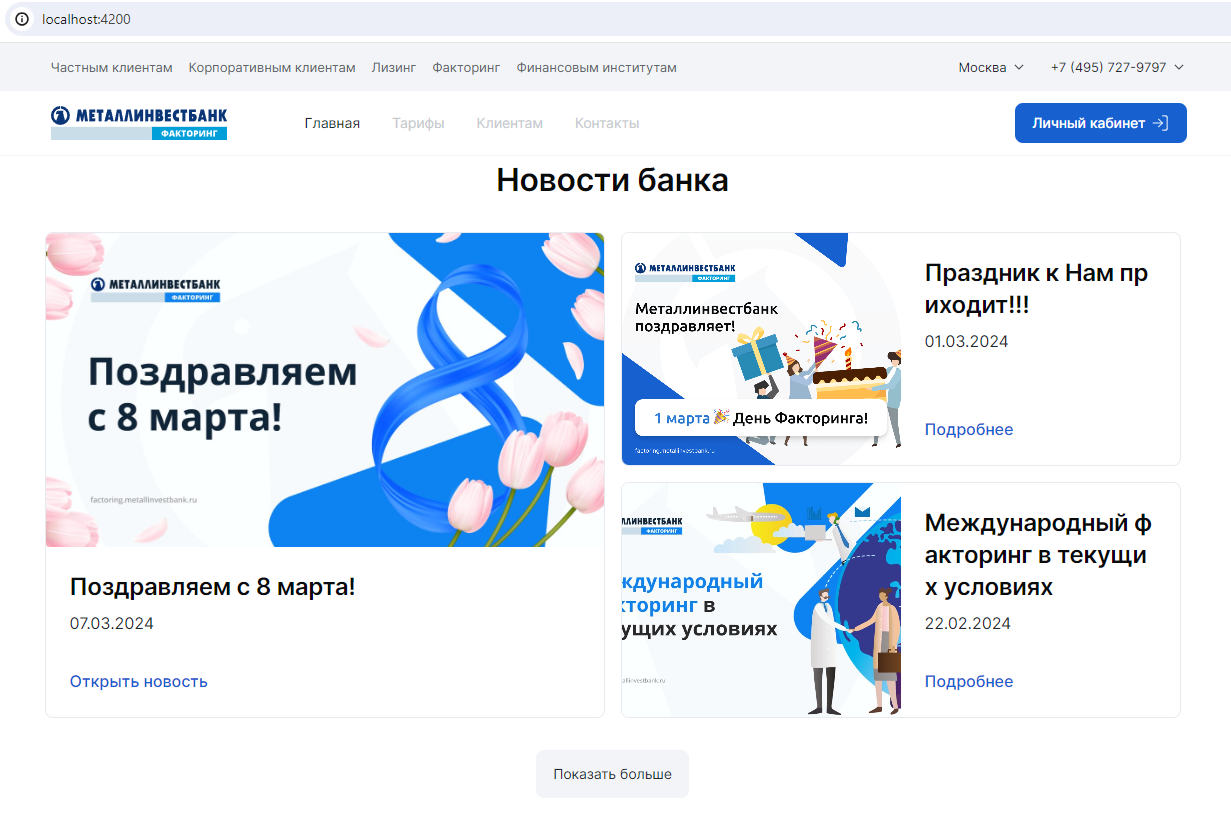
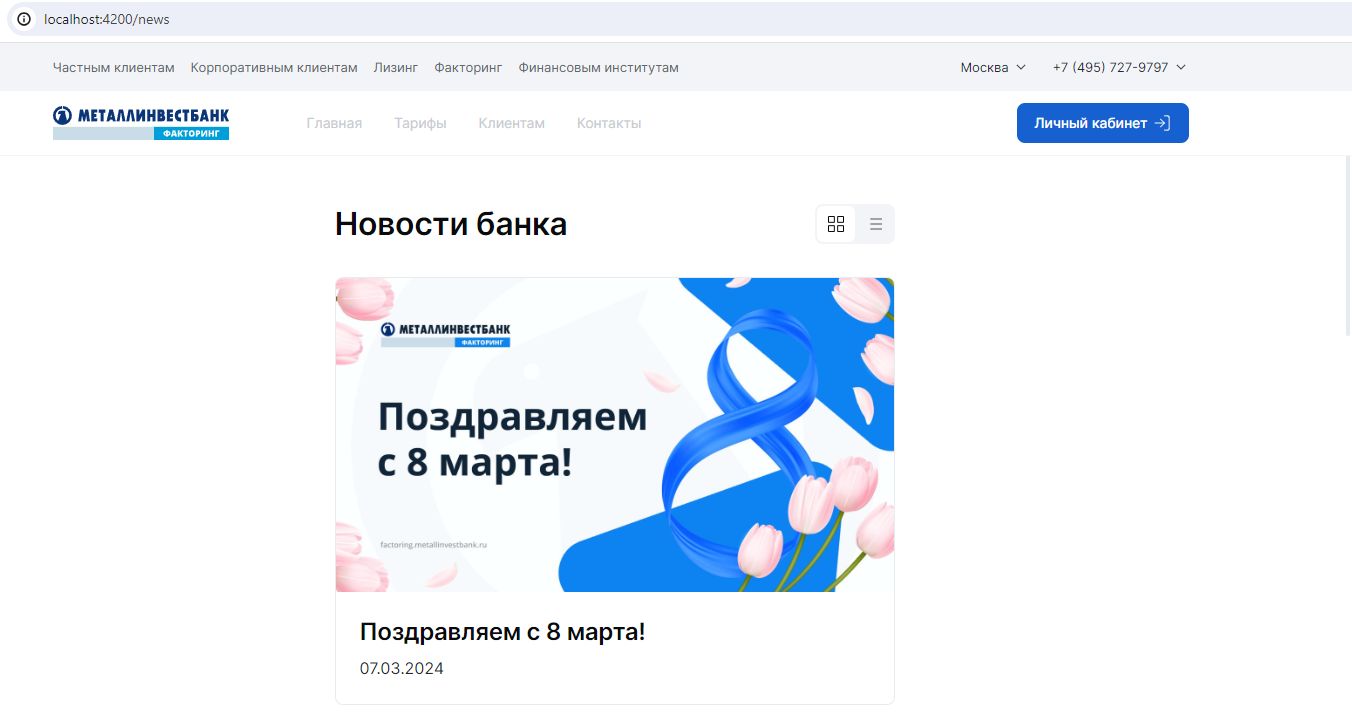
add: news.component bkend.news.data

diff --git a/src/app/public/pages/landing/landing.component.html b/src/app/public/pages/landing/landing.component.html
@@ -280,39 +280,44 @@
 		<div class="container flex gap-16">
 			<mib-news-panel
 				class="flex flex_grow"
-				[newsTitle]="getAdvancedLastNews[0]?.Title"
-				[newsDate]="getAdvancedLastNews[0]?.Date | date : 'dd.MM.yyyy'"
+				[newsTitle]="getAdvancedNews[0]?.Title"
+				[newsDate]="getAdvancedNews[0]?.Date | date : 'dd.MM.yyyy'"
 				linkText="Открыть новость"
-				[showPreview]="getAdvancedLastNews[0].Image"
+				[showPreview]="getAdvancedNews[0].Image"
 				[link]="newsDatas[0]?.link"
-				[altText]="getAdvancedLastNews[0]?.Title"
+				[altText]="getAdvancedNews[0]?.Title"
 			></mib-news-panel>
 			<div class="flex flex_grow flex_column gap-16">
 				<mib-news-panel
 					class="flex flex_grow"
 					[vertical]="false"
-					[newsTitle]="getAdvancedLastNews[1]?.Title"
-					[newsDate]="getAdvancedLastNews[1]?.Date | date : 'dd.MM.yyyy'"
+					[newsTitle]="getAdvancedNews[1]?.Title"
+					[newsDate]="getAdvancedNews[1]?.Date | date : 'dd.MM.yyyy'"
 					linkText="Подробнее"
-					[showPreview]="getAdvancedLastNews[1].Image"
+					[showPreview]="getAdvancedNews[1].Image"
 					[link]="newsDatas[1]?.link"
-					[altText]="getAdvancedLastNews[0]?.Title"
+					[altText]="getAdvancedNews[0]?.Title"
 				></mib-news-panel>
 				<mib-news-panel
 					[vertical]="false"
-					[newsTitle]="getAdvancedLastNews[2]?.Title"
-					[newsDate]="getAdvancedLastNews[2]?.Date | date : 'dd.MM.yyyy'"
+					[newsTitle]="getAdvancedNews[2]?.Title"
+					[newsDate]="getAdvancedNews[2]?.Date | date : 'dd.MM.yyyy'"
 					linkText="Подробнее"
-					[showPreview]="getAdvancedLastNews[2].Image"
+					[showPreview]="getAdvancedNews[2].Image"
 					[link]="newsDatas[2]?.link"
-					[altText]="getAdvancedLastNews[0]?.Title"
+					[altText]="getAdvancedNews[0]?.Title"
 				></mib-news-panel>
 			</div>
 		</div>
 	</ng-template>
 	<mib-spacing type="m"></mib-spacing>
 	<div class="flex flex_justify-center">
-		<mib-button size="l" (press)="getFunding()" type="filled-secondary">
+		<mib-button
+			size="l"
+			[routerLink]="'/news'"
+			(press)="getFunding()"
+			type="filled-secondary"
+		>
 			Показать больше
 		</mib-button>
 	</div>

diff --git a/src/app/public/pages/news/news.component.html b/src/app/public/pages/news/news.component.html
@@ -16,24 +16,42 @@
 		</div>
 		<mib-spacing type="m"></mib-spacing>
 		<mib-tab-item value="1">
-			<div *ngFor="let news of datas">
-				<mib-news-panel
-					[newsTitle]="news.title"
-					[newsDate]="news.date"
-					[showPreview]="news.img"
-				></mib-news-panel>
-				<mib-spacing type="s"></mib-spacing>
-			</div>
+			<ng-container *ngIf="loading$ | async; else newsPanel">
+				<mib-skeleton
+					[styles]="defaultSkeleton"
+					[style.height]="'427px'"
+					*ngFor="let i of [1]"
+				></mib-skeleton>
+			</ng-container>
+			<ng-template #newsPanel>
+				<div *ngFor="let news of getAdvancedNews">
+					<mib-news-panel
+						[newsTitle]="news.Title"
+						[newsDate]="news.Date | date : 'dd.MM.yyyy'"
+						[showPreview]="news.Image"
+					></mib-news-panel>
+					<mib-spacing type="s"></mib-spacing>
+				</div>
+			</ng-template>
 			<mib-spacing type="xl"></mib-spacing>
 		</mib-tab-item>
 		<mib-tab-item value="2">
-			<div *ngFor="let news of datas">
-				<mib-news-panel
-					[newsTitle]="news.title"
-					[newsDate]="news.date"
-				></mib-news-panel>
-				<mib-spacing type="s"></mib-spacing>
-			</div>
+			<ng-container *ngIf="loading$ | async; else cutNewsPanel">
+				<mib-skeleton
+					[styles]="defaultSkeleton"
+					[style.height]="'138px'"
+					*ngFor="let i of [1]"
+				></mib-skeleton>
+			</ng-container>
+			<ng-template #cutNewsPanel>
+				<div *ngFor="let news of getAdvancedNews">
+					<mib-news-panel
+						[newsTitle]="news.Title"
+						[newsDate]="news.Date"
+					></mib-news-panel>
+					<mib-spacing type="s"></mib-spacing>
+				</div>
+			</ng-template>
 			<mib-spacing type="xl"></mib-spacing>
 		</mib-tab-item>
 	</mib-tab-group>

diff --git a/src/app/public/pages/news/news.component.ts b/src/app/public/pages/news/news.component.ts
@@ -1,13 +1,16 @@
-import {Component} from '@angular/core'
+import {Component, OnInit} from '@angular/core'
+import {NewsService} from '../../service/news.service'
+import {BehaviorSubject, finalize, map, switchMap, tap, zip} from 'rxjs'
+import {AdvancedNewsInterface} from '../../type/news.interface'
+import {Properties} from 'csstype'
+import {ToolsService} from 'src/app/shared/services/tools.service'
 
 @Component({
 	selector: 'news',
 	styleUrls: ['./news.component.scss'],
 	templateUrl: 'news.component.html'
 })
-export class NewsComponent {
-	constructor() {}
-
+export class NewsComponent implements OnInit {
 	datas = [
 		{
 			id: 1,
@@ -45,6 +48,48 @@ export class NewsComponent {
 			link: '/news'
 		}
 	]
+
+	public defaultSkeleton: Properties = {
+		borderRadius: '8px',
+		width: '100%'
+	}
+
+	public loading$ = new BehaviorSubject<boolean>(false)
+	public newsNumberCount: number = 5
+	public getAdvancedNews: AdvancedNewsInterface[]
+
+	constructor(
+		private newsService: NewsService,
+		public toolsService: ToolsService
+	) {}
+
+	ngOnInit(): void {
+		this.getCurrentNews()
+	}
+
+	public getCurrentNews() {
+		this.loading$.next(true)
+		this.newsService
+			.getNews(this.newsNumberCount)
+			.pipe(
+				switchMap(news =>
+					zip(
+						news.map(item =>
+							this.newsService
+								.getNewsImage(item.ID)
+								.pipe(map(image => ({...item, Image: image})))
+						)
+					).pipe(
+						tap(data => {
+							this.getAdvancedNews = data
+							// console.log('data :>> ', data)
+						})
+					)
+				),
+				finalize(() => this.loading$.next(false))
+			)
+			.subscribe()
+	}
 }
 
 // import { environment } from 'src/environments/environment';

diff --git a/src/app/public/pages/landing/landing.component.ts b/src/app/public/pages/landing/landing.component.ts
@@ -87,9 +87,10 @@ export class LandingComponent implements OnInit {
 			link: '/news'
 		}
 	]
+
 	public loading$ = new BehaviorSubject<boolean>(false)
 	public newsNumberCount: number = 3
-	public getAdvancedLastNews: AdvancedNewsInterface[]
+	public getAdvancedNews: AdvancedNewsInterface[]
 
 	public currentProductsTab?: ProductTabsEnum
 
@@ -114,13 +115,12 @@ export class LandingComponent implements OnInit {
 						news.map(item =>
 							this.newsService
 								.getNewsImage(item.ID)
-
 								.pipe(map(image => ({...item, Image: image})))
 						)
 					).pipe(
 						tap(data => {
-							this.getAdvancedLastNews = data
-							console.log('data :>> ', data)
+							this.getAdvancedNews = data
+							// console.log('data :>> ', data)
 						})
 					)
 				),
